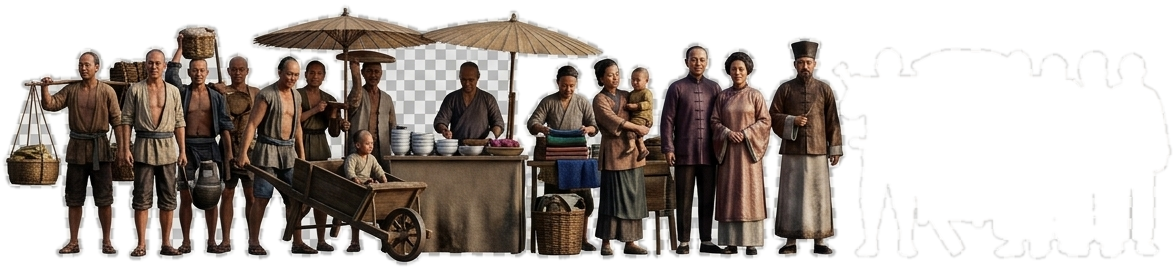
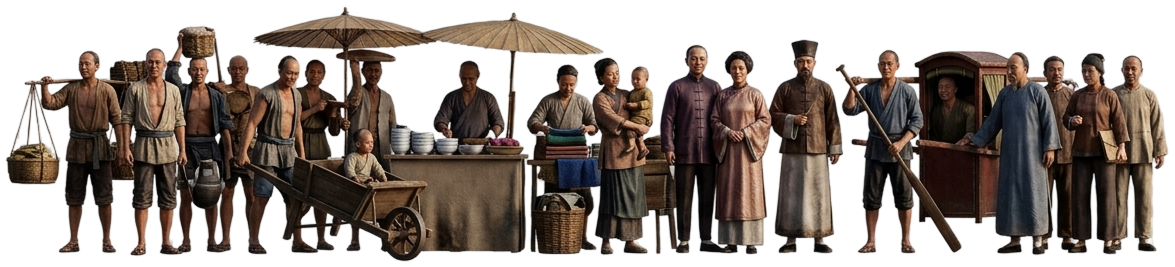
人物图换用手工抠图；切换改 A/B 双缓冲重叠滑入
- renwu-web.png / selector-person.png 基于用户手工抠图 renwu.png 重新生成（旧抠图丢失部件），删除旧 renwu.jpeg；人物基线重算（宽 720px、bottom 5px，脚底 319.9px 对齐水线）
- 场景切换重构为 A/B 双缓冲图层：旧层滑出与新层滑入同时进行，新图走到一半即可见（不再整张等走掉）
- 新图走到 50% 时诗帘/按钮/场景数据同步切换；滑出 900px 场景坐标保证整层出屏；船层不带地面阴影改为按层控制

diff --git a/js/main.js b/js/main.js
@@ -655,12 +655,33 @@ const prevBtnIcon = document.getElementById("prevBtnIcon");
 const prevBtnLabel = document.getElementById("prevBtnLabel");
 const nextBtnIcon = document.getElementById("nextBtnIcon");
 const nextBtnLabel = document.getElementById("nextBtnLabel");
-const sceneLayers = {
-  bridge: [document.getElementById("bridgeImg"), document.querySelector(".bridge-front")],
-  boat: [document.getElementById("boatImg")],
-  tower: [document.getElementById("towerImg")],
-  person: [document.getElementById("personImg")]
+/* A/B 双缓冲图层：每张场景图在两层里各有一套，切换时旧层滑出、新层同时滑入 */
+const SLIDE_KEYS = ["back", "boat", "tower", "person", "front", "shadow"];
+const SLIDE_VIS = {
+  bridge: ["back", "front", "shadow"],
+  boat: ["boat"], // 船自带水面，不带地面阴影
+  tower: ["tower", "shadow"],
+  person: ["person", "shadow"]
 };
+function readSlide(el) {
+  const s = { el };
+  s.back = el.querySelector(".bridge__back");
+  s.boat = el.querySelector(".bridge__boat");
+  s.tower = el.querySelector(".bridge__tower");
+  s.person = el.querySelector(".bridge__person");
+  s.front = el.querySelector(".bridge-front");
+  s.shadow = el.querySelector(".bridge-shadow");
+  return s;
+}
+const slides = [
+  readSlide(document.getElementById("slideA")),
+  readSlide(document.getElementById("slideB"))
+];
+let activeSlide = 0;
+function setLayer(slide, id) {
+  const vis = SLIDE_VIS[id];
+  for (const k of SLIDE_KEYS) slide[k].hidden = !vis.includes(k);
+}
 const bottomCopy = document.getElementById("bottomCopy");
 let sceneIdx = 0;
 let swapping = false;
@@ -691,15 +712,11 @@ function updateNav() {
   document.body.dataset.scene = sceneAt(sceneIdx);
 }
 
-function swapLayers(idx) {
-  const nextId = sceneAt(idx);
-  for (const [id, layers] of Object.entries(sceneLayers)) {
-    const on = id === nextId;
-    layers.forEach((el) => (el.hidden = !on));
-  }
-  /* 每张图配自己的诗帘：虹桥=清明·寒食、帆船=春江·烟柳、城楼=踏青·寻春。
-     此时场景已滑出屏幕（opacity 0.25 之外），重建不可见 */
-  CONFIG.collection = SCENE_META[nextId].collection;
+/* 新图走到一半时更新诗帘与按钮（每张图配自己的诗帘：qm/ch/tq/全卷） */
+function swapCurtain() {
+  const id = sceneAt(sceneIdx);
+  document.body.dataset.scene = id;
+  CONFIG.collection = SCENE_META[id].collection;
   panelApi.panel.querySelector("select").value = CONFIG.collection;
   rerender();
   updateNav();
@@ -711,31 +728,39 @@ async function goScene(delta) {
   prevBtn.disabled = true;
   nextBtn.disabled = true;
   const targetIdx = (sceneIdx + delta + SCENE_ORDER.length) % SCENE_ORDER.length;
-  /* delta=+1（右按钮·下一张）：新图从右进场 → 场景向左滑出（dir=-1）
-     delta=-1（左按钮·上一张）：新图从左进场 → 场景向右滑出（dir=+1） */
+  /* delta=+1（右按钮·下一张）：新图从右进场 → 旧层向左滑出（dir=-1）
+     delta=-1（左按钮·上一张）：新图从左进场 → 旧层向右滑出（dir=+1）
+     900px 为场景坐标（场景宽 720px），保证整层完全滑出屏幕 */
   const dir = -delta;
-  const trans = `transform ${SWAP_MS}ms ${SWAP_EASE}, opacity ${SWAP_MS}ms ${SWAP_EASE}`;
+  const SLIDE_OUT = 900;
+  const trans = `transform ${SWAP_MS}ms ${SWAP_EASE}`;
+  const fromS = slides[activeSlide];
+  const toS = slides[1 - activeSlide];
+
+  /* 新图放入空闲层，置于进场侧屏外；旧层与新层同时滑动（重叠可见） */
+  setLayer(toS, sceneAt(targetIdx));
+  fromS.el.style.transition = "none";
+  toS.el.style.transition = "none";
+  fromS.el.style.transform = "translateX(0px)";
+  toS.el.style.transform = `translateX(${-SLIDE_OUT * dir}px)`;
+  toS.el.style.zIndex = 6;
 
   bottomCopy.classList.add("is-dipping");
-  scene.style.transition = trans;
-  scene.style.setProperty("--slide", `${110 * dir}vw`);
-  scene.style.opacity = "0.25";
+  void toS.el.offsetWidth;
+  fromS.el.style.transition = trans;
+  toS.el.style.transition = trans;
+  fromS.el.style.transform = `translateX(${SLIDE_OUT * dir}px)`;
+  toS.el.style.transform = "translateX(0px)";
 
-  await sleep(SWAP_MS * 0.78);
+  await sleep(SWAP_MS * 0.5);
 
+  /* 新图走到一半：诗帘/按钮/场景数据同步切换 */
   sceneIdx = targetIdx;
-  swapLayers(sceneIdx);
+  swapCurtain();
 
-  scene.style.transition = "none";
-  scene.style.setProperty("--slide", `${-110 * dir}vw`);
-  void scene.offsetWidth;
-  scene.style.transition = trans;
-  scene.style.setProperty("--slide", "0px");
-  scene.style.opacity = "1";
-
-  await sleep(SWAP_MS);
-  scene.style.transition = "";
-  scene.style.opacity = "";
+  await sleep(SWAP_MS * 0.5);
+  fromS.el.style.zIndex = "";
+  activeSlide = 1 - activeSlide;
   bottomCopy.classList.remove("is-dipping");
   swapping = false;
   prevBtn.disabled = false;

diff --git a/index.html b/index.html
@@ -64,34 +64,31 @@
 
       <main class="area">
         <div class="scene" id="scene">
-          <div class="bridge" id="bridgeBack">
-            <img id="bridgeImg" src="assets/hongqiao-back.png" alt="虹桥" />
-            <img
-              id="boatImg"
-              class="bridge__boat"
-              src="assets/fanchuan-web.png"
-              alt="汴河帆船"
-              hidden
-            />
-            <img
-              id="towerImg"
-              class="bridge__tower"
-              src="assets/chenglou-web.png"
-              alt="汴京城楼"
-              hidden
-            />
-            <img
-              id="personImg"
-              class="bridge__person"
-              src="assets/renwu-web.png"
-              alt="汴京人物"
-              hidden
-            />
+          <!-- A/B 双缓冲图层：切换时旧层滑出与新层滑入同时进行（重叠可见） -->
+          <div class="slide" id="slideA">
+            <div class="bridge">
+              <img class="bridge__back" src="assets/hongqiao-back.png" alt="虹桥" />
+              <img class="bridge__boat" src="assets/fanchuan-web.png" alt="汴河帆船" hidden />
+              <img class="bridge__tower" src="assets/chenglou-web.png" alt="汴京城楼" hidden />
+              <img class="bridge__person" src="assets/renwu-web.png" alt="汴京人物" hidden />
+            </div>
+            <div class="bridge-front" aria-hidden="true">
+              <img src="assets/hongqiao-front.png" alt="" />
+            </div>
+            <div class="bridge-shadow" aria-hidden="true"></div>
           </div>
-          <div class="bridge-front" aria-hidden="true">
-            <img src="assets/hongqiao-front.png" alt="" />
+          <div class="slide" id="slideB">
+            <div class="bridge">
+              <img class="bridge__back" src="assets/hongqiao-back.png" alt="" hidden />
+              <img class="bridge__boat" src="assets/fanchuan-web.png" alt="" hidden />
+              <img class="bridge__tower" src="assets/chenglou-web.png" alt="" hidden />
+              <img class="bridge__person" src="assets/renwu-web.png" alt="" hidden />
+            </div>
+            <div class="bridge-front" aria-hidden="true" hidden>
+              <img src="assets/hongqiao-front.png" alt="" />
+            </div>
+            <div class="bridge-shadow" aria-hidden="true" hidden></div>
           </div>
-          <div class="bridge-shadow" aria-hidden="true"></div>
           <div class="strings" id="container" aria-label="清明诗帘"></div>
         </div>
       </main>

diff --git a/css/style.css b/css/style.css
@@ -261,9 +261,15 @@ body.panel-open .nav-btn--right {
   /* 窄屏下保持 720px 布局宽（仅靠 --s 缩放），
      防止 flex 收缩到 680px 导致桥/船/诗帘坐标错位 */
   flex: 0 0 720px;
-  /* --slide：桥/船切换时整体横滑（chimes 参考站同款），先缩放后平移 */
-  transform: translateX(var(--slide, 0px)) scale(var(--s, 1));
+  transform: scale(var(--s, 1));
   transform-origin: top center;
+}
+
+/* A/B 双缓冲图层：切换时旧层滑出与新层滑入同时走（走到一半即可看到新图） */
+.slide {
+  position: absolute;
+  inset: 0;
+  will-change: transform;
 }
 
 /* 场景后的径向暗晕：把桥与诗帘从流动的画卷背景里托出来 */
@@ -333,12 +339,12 @@ body.panel-open .nav-btn--right {
 }
 
 /* 人物：脚底与水线对齐（共用 211px 基线）。
-   renwu-web.png 已裁剪为纯人物条（1175×270），脚底 ≈ 图高 97.4%；
-   宽 720px → 图高 165px，底缘内收 4px，脚底与水线同高（≈202.5px） */
+   renwu-web.png 为用户抠图裁剪的纯人物条（1175×267），脚底 ≈ 图高 98.1%；
+   宽 720px → 图高 164px，底缘内收 5px，脚底与水线同高（≈202.5px） */
 .bridge .bridge__person {
   position: absolute;
   left: 50%;
-  bottom: 4px;
+  bottom: 5px;
   transform: translateX(-50%);
   width: 720px;
   height: auto;
@@ -376,11 +382,6 @@ body.panel-open .nav-btn--right {
   background: radial-gradient(ellipse at center, rgba(48, 31, 15, 0.3), transparent 70%);
   pointer-events: none;
   transition: opacity 0.45s ease;
-}
-
-/* 船自带水面，去掉桥下的暗色投影（城楼的石基下保留作地面阴影） */
-body[data-scene="boat"] .bridge-shadow {
-  opacity: 0;
 }
 
 /* 与 main.js 常量对齐：strings 顶 = BRIDGE_H(211) + CLOTH_GAP(-14) = 197px；
